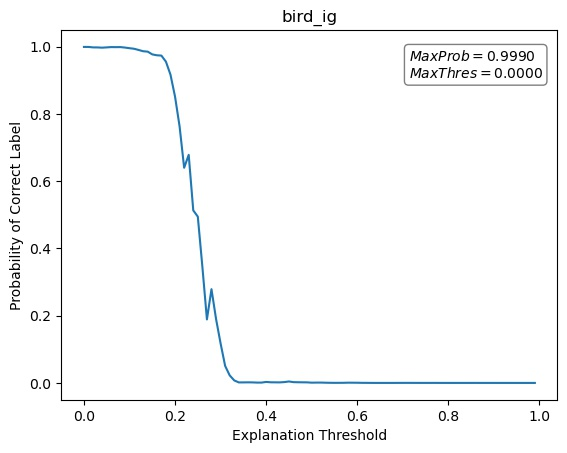
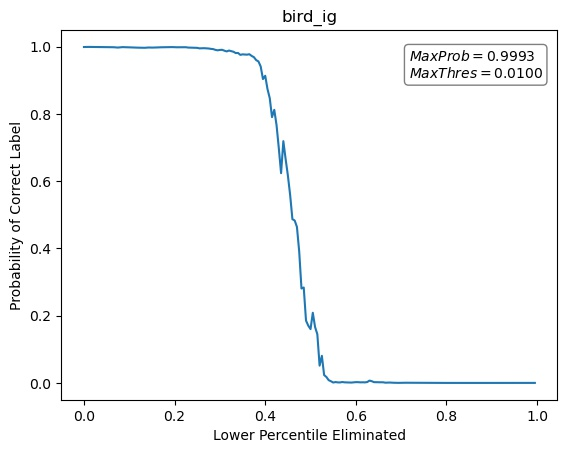
added probability vs. percentile plots

diff --git a/runner.py b/runner.py
@@ -28,7 +28,7 @@ def normalize_explanations(explanation, explanation_norm_type):
         explanation = explanation_std * (maxval - minval) + minval
     elif explanation_norm_type == "scale":
         maxval = torch.max(explanation)
-        explanation = explanation/maxval
+        explanation = explanation / maxval
     elif explanation_norm_type == "none":
         explanation = explanation
     else:
@@ -73,7 +73,7 @@ def evaluate_pixel_based_methods(explanation, input_image, image, image_name, mo
     return topk_pred
 
 
-def evaluate_pixel_based_methods_max_probability(explanation, input_image, image_name, model, categories,
+def evaluate_pixel_based_methods_threshold_range(explanation, input_image, image_name, model, categories,
                                                  correct_label, explanation_norm_type):
     # takes in single image!
     explanation = normalize_explanations(explanation, explanation_norm_type=explanation_norm_type)
@@ -82,7 +82,7 @@ def evaluate_pixel_based_methods_max_probability(explanation, input_image, image
 
     for i in range(threshold.shape[0]):
         input_image_w_gradient = input_image.clone()
-        input_image_w_gradient[abs(explanation) < threshold[i]] = 0
+        input_image_w_gradient[abs(explanation) > threshold[i]] = 0
         output = model(input_image_w_gradient.unsqueeze(0))
         probabilities = torch.nn.functional.softmax(output[-1], dim=0)
         prob = probabilities[categories.index(correct_label)].item()
@@ -100,6 +100,45 @@ def evaluate_pixel_based_methods_max_probability(explanation, input_image, image
     ax.set_title(image_name)
     ax.plot(threshold, prob_correct_label)
     ax.set_xlabel('Explanation Threshold')
+    ax.set_ylabel('Probability of Correct Label')
+    ax.text(0.7, 0.95, textstr, transform=ax.transAxes, fontsize=10,
+            verticalalignment='top', bbox=props)
+    plt.show()
+    plt.savefig(PLOT_OUTPUT_PATH + image_name + ".jpg")
+
+    max_id = np.argmax(np.array(prob_correct_label))
+
+    return max_threshold, max_probability
+
+
+def evaluate_pixel_based_methods_percentile_range(explanation, input_image, image_name, model, categories,
+                                                  correct_label, explanation_norm_type):
+    # takes in single image!
+    explanation = normalize_explanations(explanation, explanation_norm_type=explanation_norm_type)
+    prob_correct_label = []
+    threshold = np.arange(200) * 0.005
+
+    for i in range(threshold.shape[0]):
+        input_image_w_gradient = input_image.clone()
+        thres = torch.quantile(abs(explanation), threshold[i])
+        input_image_w_gradient[abs(explanation) < thres] = 0
+        output = model(input_image_w_gradient.unsqueeze(0))
+        probabilities = torch.nn.functional.softmax(output[-1], dim=0)
+        prob = probabilities[categories.index(correct_label)].item()
+        prob_correct_label.append(prob)
+
+    # plot
+    max_id = np.argmax(np.array(prob_correct_label))
+    max_threshold, max_probability = threshold[max_id], prob_correct_label[max_id]
+    textstr = '\n'.join((
+        r'$Max Prob=%.4f$' % (max_probability,),
+        r'$Max Thres=%.4f$' % (max_threshold,)))
+    props = dict(boxstyle='round', facecolor='white', alpha=0.5)
+
+    fig, ax = plt.subplots()
+    ax.set_title(image_name)
+    ax.plot(threshold, prob_correct_label)
+    ax.set_xlabel('Lower Percentile Eliminated')
     ax.set_ylabel('Probability of Correct Label')
     ax.text(0.7, 0.95, textstr, transform=ax.transAxes, fontsize=10,
             verticalalignment='top', bbox=props)
@@ -130,9 +169,9 @@ def evaluate_lime(lime_explanation, input_image, model, categories, image_name, 
 
 if __name__ == '__main__':
     # setting vars
-    image_path = "./data/bird.jpeg"
-    image_name = "bird"
-    label_name = "junco"
+    image_path = "./data/dog.jpg"
+    image_name = "samoyed"
+    label_name = "Samoyed"
     explanation_norm_type = "scale"
     zero_out_threshold = 0.01
     path = './outputs/results_' + image_name + "_" + \
@@ -165,13 +204,13 @@ if __name__ == '__main__':
     prettyprint_tuple(topk_pred_ig)
     output_predictions(topk_pred_ig, path, result_type="Integrated Gradient prediction", output_type="a")
 
-    max_threshold, max_probability = evaluate_pixel_based_methods_max_probability(explanation=explanation_ig,
-                                                                                  input_image=input_image,
-                                                                                  image_name=image_name + "_ig",
-                                                                                  model=MODEL,
-                                                                                  categories=CATEGORIES,
-                                                                                  correct_label=label_name,
-                                                                                  explanation_norm_type='std')
+    max_threshold, max_probability = evaluate_pixel_based_methods_percentile_range(explanation=explanation_ig,
+                                                                                   input_image=input_image,
+                                                                                   image_name=image_name + "_ig",
+                                                                                   model=MODEL,
+                                                                                   categories=CATEGORIES,
+                                                                                   correct_label=label_name,
+                                                                                   explanation_norm_type='std')
 
     print(f'Maximum Probability of {label_name}: {max_probability}')
     print(f'Maximum Threshold: {max_threshold}')
@@ -190,13 +229,13 @@ if __name__ == '__main__':
     prettyprint_tuple(topk_pred_ldm)
     output_predictions(topk_pred_ldm, path, result_type="Local Data Matrix prediction", output_type="a")
 
-    max_threshold, max_probability = evaluate_pixel_based_methods_max_probability(explanation=explanation_ldm,
-                                                                                  input_image=input_image,
-                                                                                  image_name=image_name + "_ldm",
-                                                                                  model=MODEL,
-                                                                                  categories=CATEGORIES,
-                                                                                  correct_label=label_name,
-                                                                                  explanation_norm_type='std')
+    max_threshold, max_probability = evaluate_pixel_based_methods_percentile_range(explanation=explanation_ldm,
+                                                                                   input_image=input_image,
+                                                                                   image_name=image_name + "_ldm",
+                                                                                   model=MODEL,
+                                                                                   categories=CATEGORIES,
+                                                                                   correct_label=label_name,
+                                                                                   explanation_norm_type='std')
 
     print(f'Maximum Probability of {label_name}: {max_probability}')
     print(f'Maximum Threshold: {max_threshold}')
@@ -220,4 +259,3 @@ if __name__ == '__main__':
     print("\nLIME prediction 20 features")
     prettyprint_tuple(topk_pred_lime)
     output_predictions(topk_pred_lime, path, result_type="LIME prediction 20 features", output_type="a")
-
